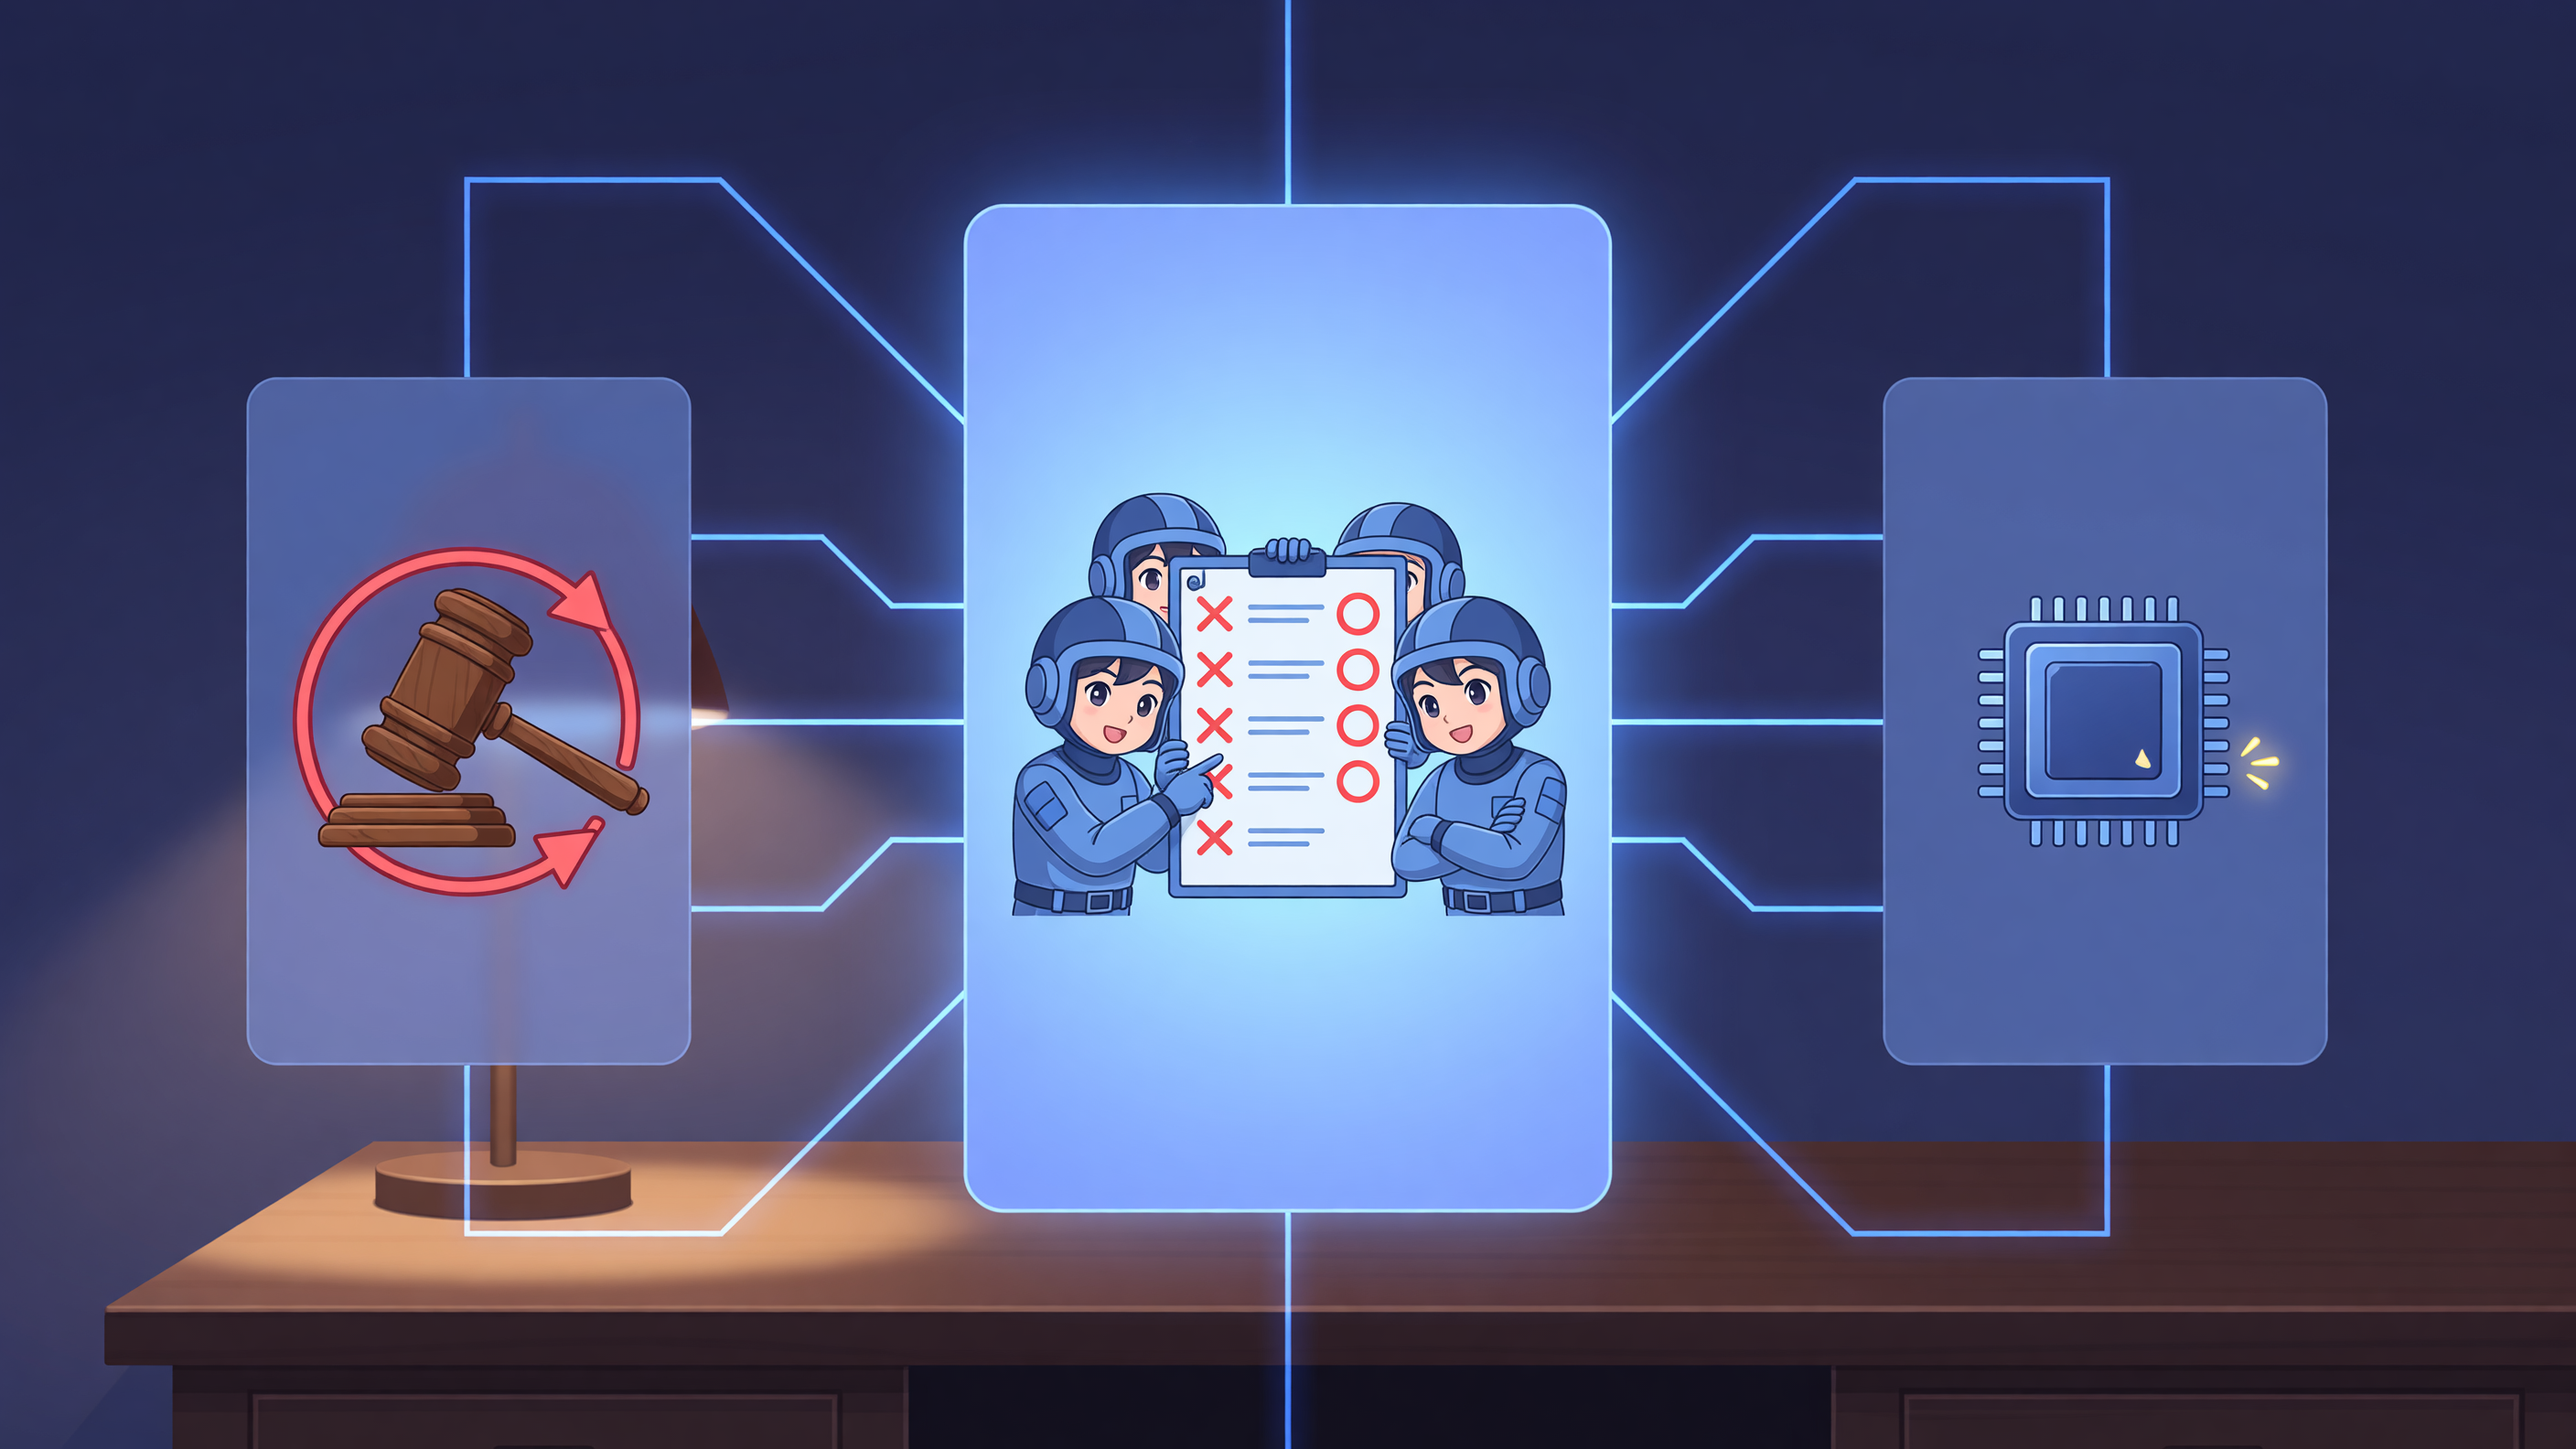
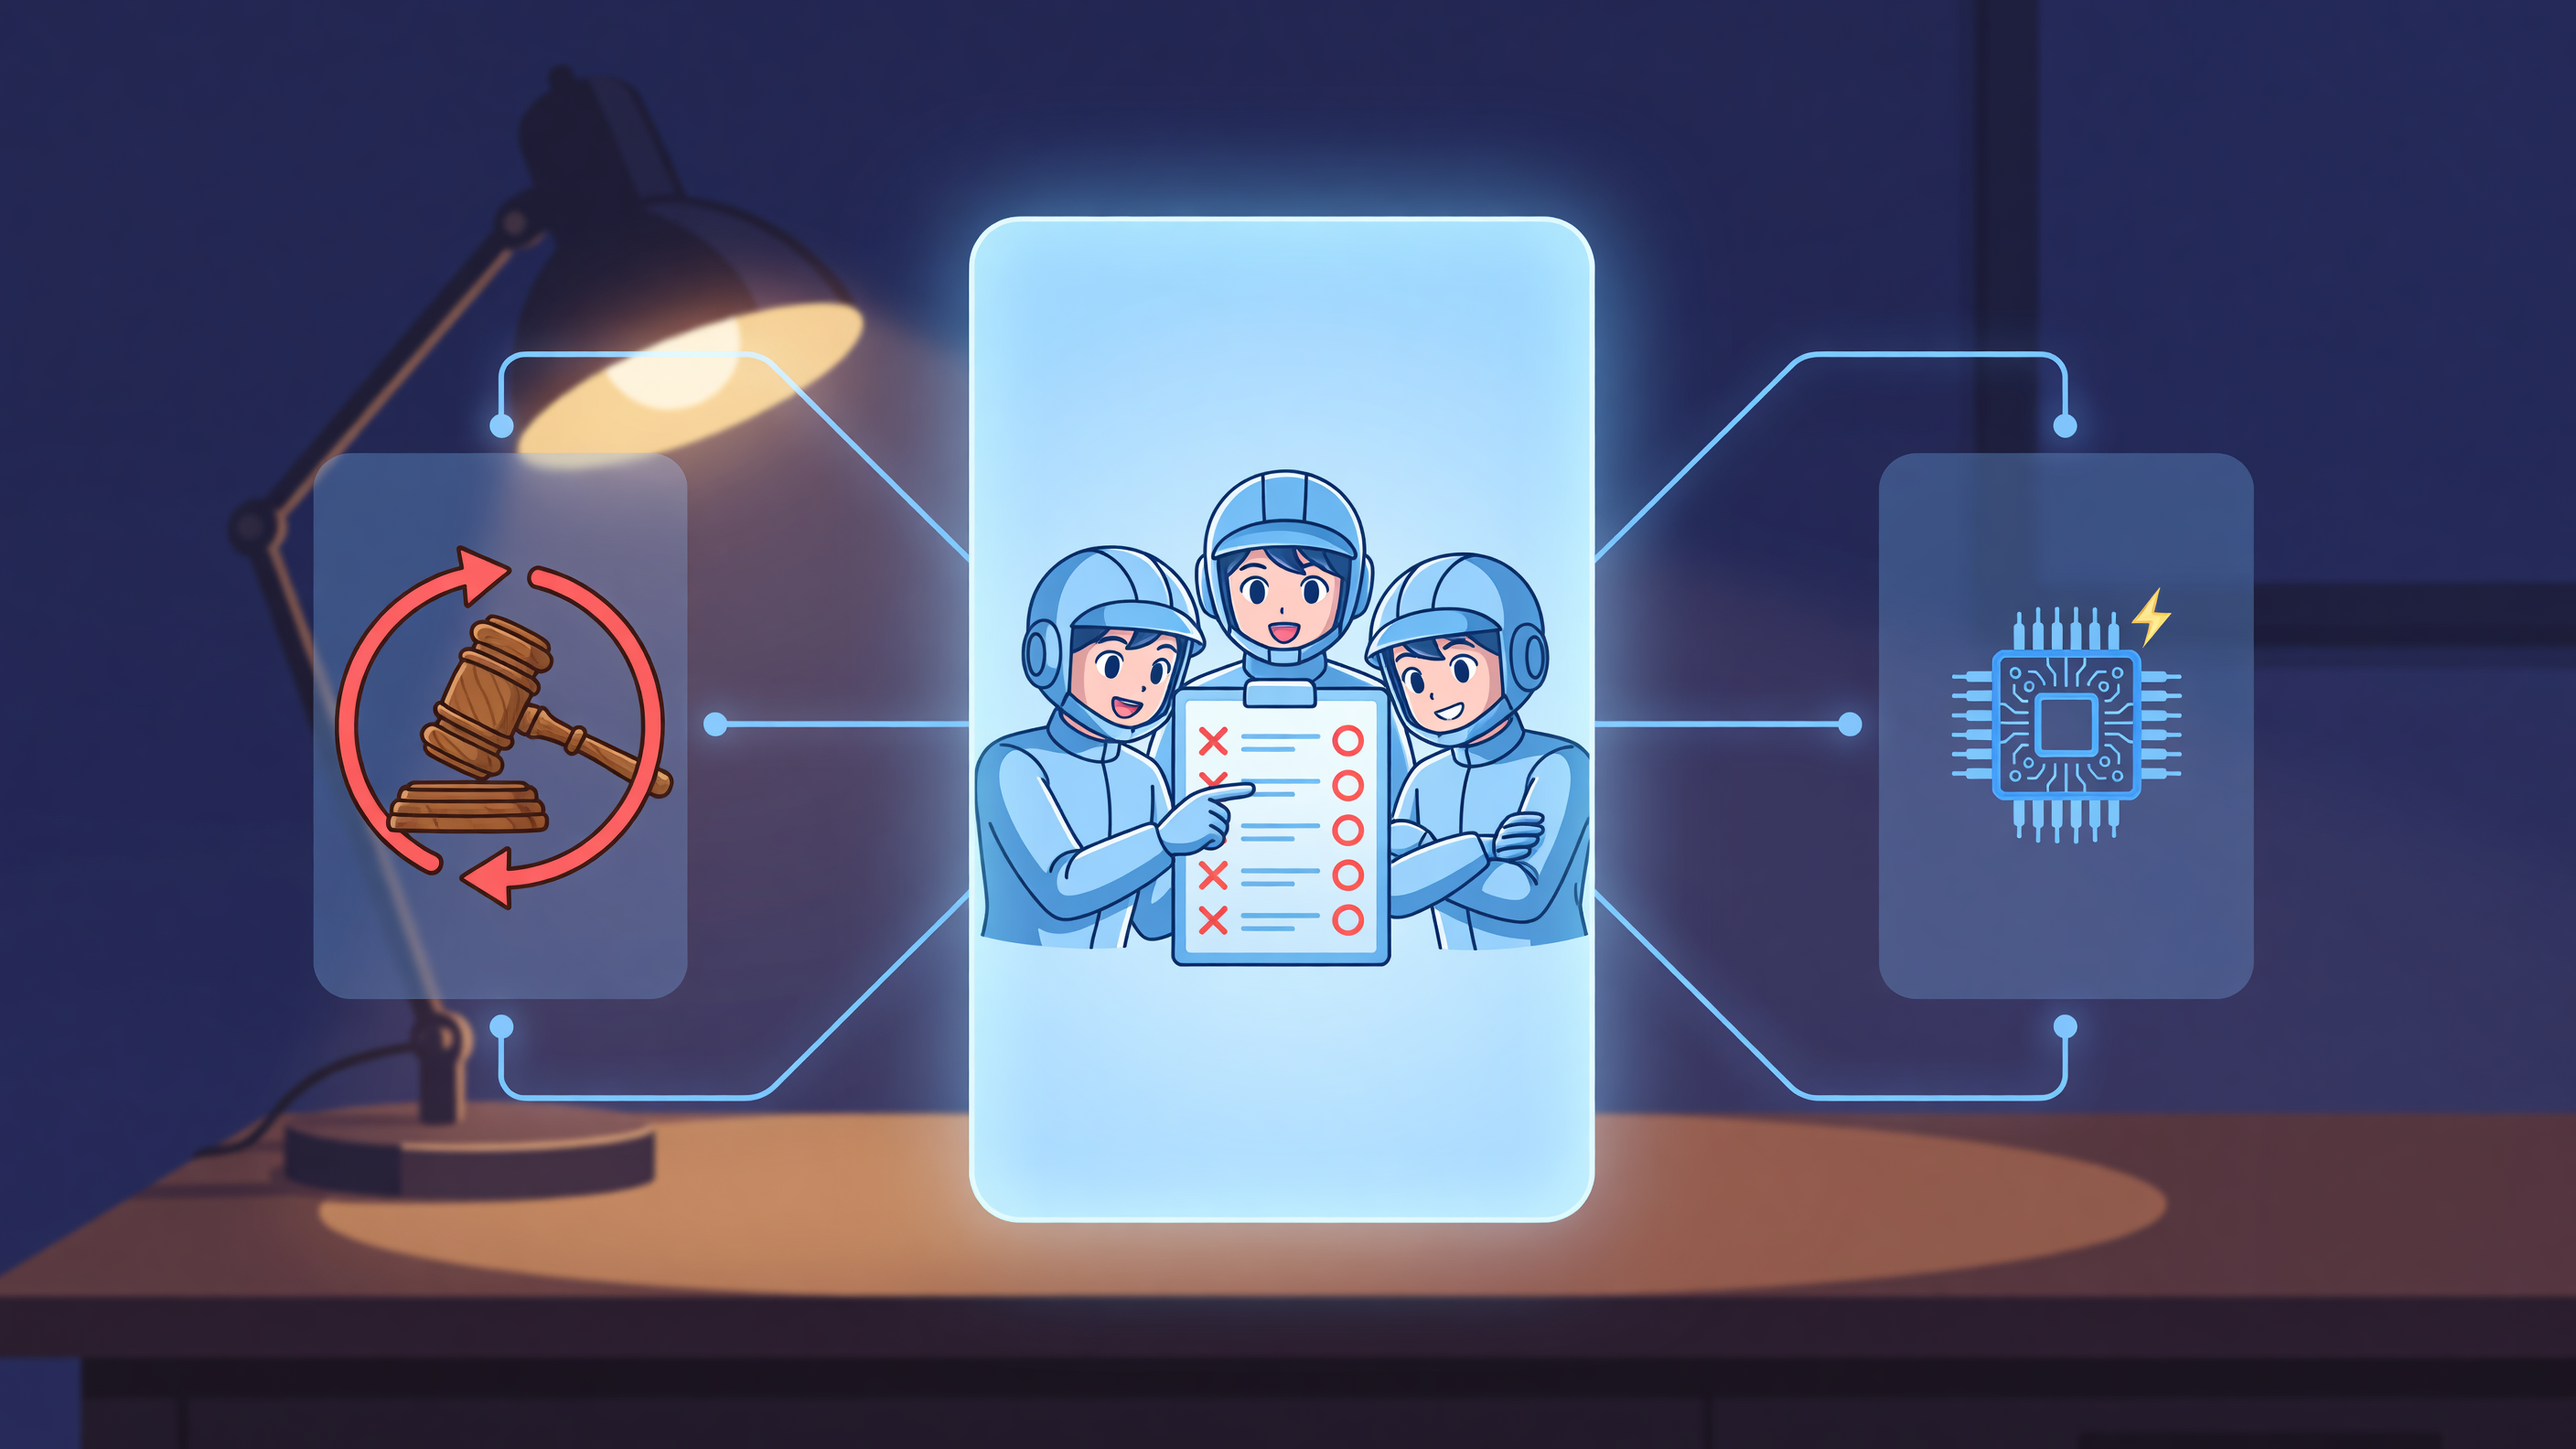
Refs #19: re-render README rasters with the new image model (grok-imagine); update hashes + prompt records
- assets/acs-readme-hero.png (2816x1584): legible exact title/subtitle, sharper composition than the prior pass
- assets/acs-three-modules.png: hub-and-spoke with the hotloader card dominant, jev-omp/jev-benchmark satellites smaller, zero lettering
- manifest hashes 6eb48ad8…/9606df3c… + both prompt records synced; validate_content_system helper+adapter VALID at c069613
- task checkpoint entry for the refresh

diff --git a/tasks/TASK-ACS-0006-cgm057-pcm060-pins.md b/tasks/TASK-ACS-0006-cgm057-pcm060-pins.md
@@ -90,3 +90,20 @@ Decisions:
 Blocked/uncertain: none.
 
 Next: green `gates` on the updated PR #45 head → merge → receipts on #19/#44/#46/#11 → sync CURRENT.md.
+
+### 2026-10-01 — final hero re-render with the new image model (as-of; live issues own progression)
+
+Completed:
+- Owner added `xai-oauth/grok-imagine-image` to the image role; re-rendered both README rasters with it and inspected before shipping: `assets/acs-readme-hero.png` (2816x1584; title "Catch mistakes earlier" + subtitle "Jev routing turns your constraints into checkpoints" legible, correctly spelled) and `assets/acs-three-modules.png` (hub-and-spoke; hotloader card dominant, jev-omp gavel + jev-benchmark CPU satellites smaller; zero lettering).
+- Manifest hashes + both prompt records updated to the new SHA-256s (`6eb48ad8…`, `9606df3c…`); validator re-run helper+adapter VALID.
+
+Evidence: `validate_content_system.py` @ `c069613` → `VALID: content-generation-modules contract and target adapter`; visual inspection of both PNGs at use size before acceptance.
+
+Changed: `assets/acs-readme-hero.png`, `assets/acs-three-modules.png`, `assets/acs-readme-hero-prompt.md`, `assets/acs-three-modules-prompt.md`, `.content-system/asset-manifest.json`.
+
+Decisions:
+- Superseded the earlier grok-imagine renders (same prompts, cleaner composition); kept `jev-routing-hero.png` untouched for the product HTML page.
+
+Blocked/uncertain: none.
+
+Next: green `gates` on this refresh PR → merge with the owner's approving review (no `--admin`) → append the refresh receipt to #19.

diff --git a/assets/acs-readme-hero-prompt.md b/assets/acs-readme-hero-prompt.md
@@ -4,7 +4,7 @@
 - **Model:** grok-imagine-image
 - **Generated:** 2026-10-01 (session `generate_image` tool)
 - **Size:** 2816x1584 (16:9), PNG
[2 lines of base64/hex data omitted]
 
 ## Prompt (subject)
 

diff --git a/assets/acs-three-modules-prompt.md b/assets/acs-three-modules-prompt.md
@@ -4,7 +4,7 @@
 - **Model:** grok-imagine-image
 - **Generated:** 2026-10-01 (session `generate_image` tool)
 - **Size:** 2816x1584 (16:9), PNG
[2 lines of base64/hex data omitted]
 
 ## Prompt (subject)
 
